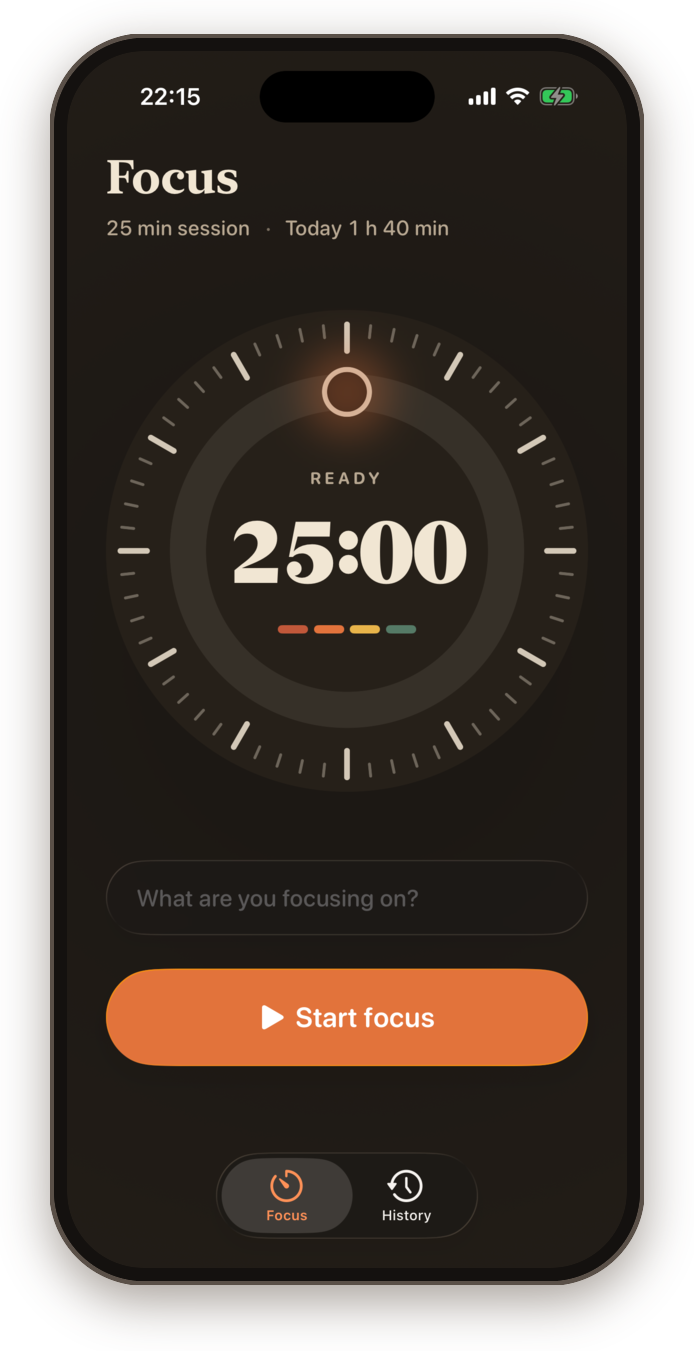
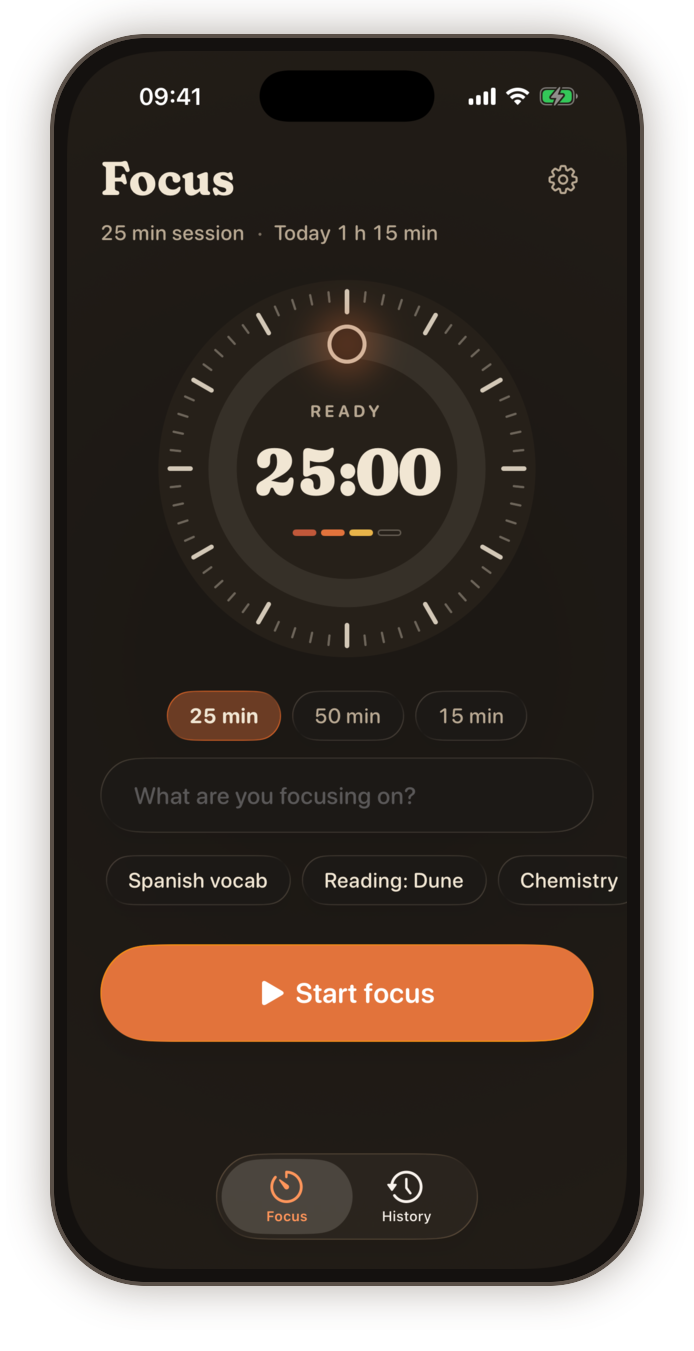
README: new screenshots for the M5 design
Retaken on a clean simulator with demo data and framed like the
originals: Focus idle with length chips, running, complete, History,
the session card, Settings, Lock Screen, widget, the bedside clock (in
place of StandBy, which the simulator can't show) and the Dynamic
Island. The hero banner is set in Fraunces.

diff --git a/README.md b/README.md
@@ -33,15 +33,19 @@ A retro, one-thing-at-a-time focus timer for iPhone. Name what you're working on
 
 | Focus | Running | Complete |
 |:---:|:---:|:---:|
-| <img src="docs/screenshots/focus-idle.png" width="250" alt="Focus screen, ready to start"> | <img src="docs/screenshots/focus-running.png" width="250" alt="A focus session running"> | <img src="docs/screenshots/focus-complete.png" width="250" alt="Session complete with the sunburst"> |
+| <img src="docs/screenshots/focus-idle.png" width="250" alt="Focus screen with the length chips, ready to start"> | <img src="docs/screenshots/focus-running.png" width="250" alt="A focus session running"> | <img src="docs/screenshots/focus-complete.png" width="250" alt="Session complete with the sunburst"> |
 
-| History | Lock Screen | Home Screen widget |
+| History | Session card | Settings |
 |:---:|:---:|:---:|
-| <img src="docs/screenshots/history.png" width="250" alt="History with the week's session columns"> | <img src="docs/screenshots/lock-screen.png" width="250" alt="Live Activity on the Lock Screen"> | <img src="docs/screenshots/widget.png" width="250" alt="Medium widget on the Home Screen"> |
+| <img src="docs/screenshots/history.png" width="250" alt="History with the week's session columns"> | <img src="docs/screenshots/session-card.png" width="250" alt="A session's card, with Rename and Delete"> | <img src="docs/screenshots/settings.png" width="250" alt="Settings with lengths, appearance and the bedside clock"> |
 
-| StandBy | Dynamic Island |
+| Lock Screen | Home Screen widget |
 |:---:|:---:|
-| <img src="docs/screenshots/standby.png" width="420" alt="StandBy bedside timer"> | <img src="docs/screenshots/dynamic-island.png" width="380" alt="Expanded Dynamic Island"> |
+| <img src="docs/screenshots/lock-screen.png" width="250" alt="Live Activity on the Lock Screen"> | <img src="docs/screenshots/widget.png" width="250" alt="Medium widget on the Home Screen"> |
+
+| Bedside clock | Dynamic Island |
+|:---:|:---:|
+| <img src="docs/screenshots/bedside.png" width="420" alt="The bedside clock in landscape"> | <img src="docs/screenshots/dynamic-island.png" width="380" alt="Expanded Dynamic Island"> |
 
 ## Design
 
